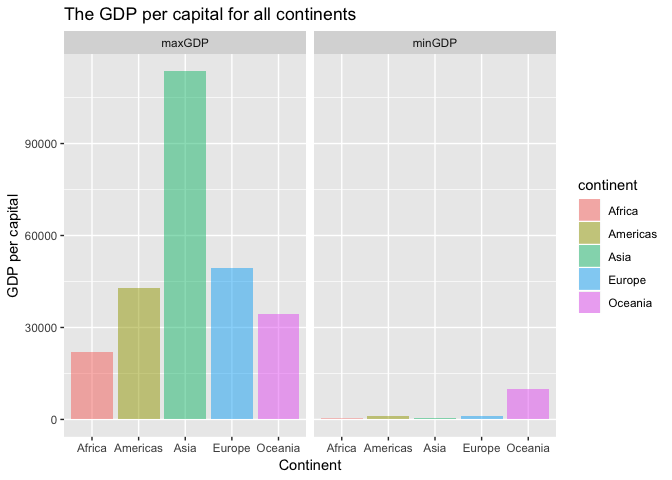
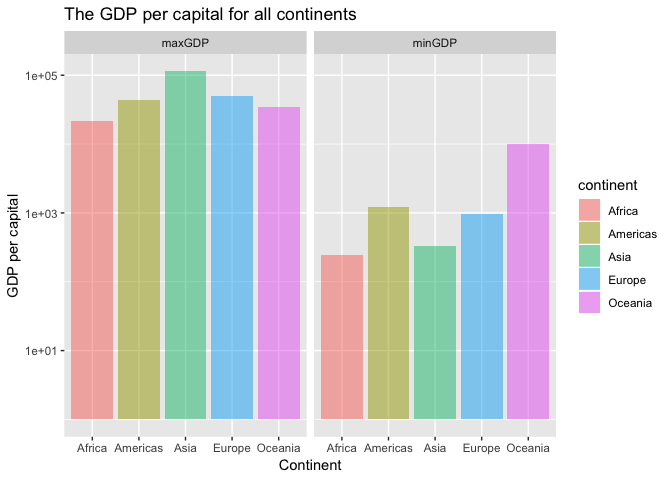
spread

diff --git a/hw03.md b/hw03.md
@@ -43,31 +43,36 @@ GDP_per_cap%>%
     kable(col.names = c("Continent", "Min GDP", "Max GDP"))
 ```
 
-| Continent        |        Min GDP|                                                       Max GDP|
-|:-----------------|--------------:|-------------------------------------------------------------:|
-| Africa           |       241.1659|                                                      21951.21|
-| Americas         |      1201.6372|                                                      42951.65|
-| Asia             |       331.0000|                                                     113523.13|
-| Europe           |       973.5332|                                                      49357.19|
-| Oceania          |     10039.5956|                                                      34435.37|
-| \#\#\#\# Let's t |  ry to view th|  e minimum and maximum of GDP per capital for all continents.|
+| Continent |     Min GDP|    Max GDP|
+|:----------|-----------:|----------:|
+| Africa    |    241.1659|   21951.21|
+| Americas  |   1201.6372|   42951.65|
+| Asia      |    331.0000|  113523.13|
+| Europe    |    973.5332|   49357.19|
+| Oceania   |  10039.5956|   34435.37|
+
+#### Let's try to view the minimum and maximum of GDP per capital for all continents.
 
 ``` r
 GDP_per_cap %>% 
   ##get the col 2 and 3 data_set
-  gather(key=type, value=GDP_per_cap, 2:3) %>%  
+  gather(key=min_or_max, value=GDP_per_cap, 2:3) %>%  
   ##plot the data with color fill
   ggplot(aes(x = continent, y = GDP_per_cap, fill = continent)) +
   ##the height of bars reporesents the data
-  geom_col(alpha=0.5)+
+  geom_col(alpha=0.5) +
+  ##scale the y-axis
+  scale_y_log10() +
   ##warp with maxGDP and minGDP with the y-scale is not aligned
-  facet_wrap(.~type)  +
+  facet_wrap(.~min_or_max)  +
   ggtitle("The GDP per capital for all continents") +
   xlab("Continent") +
   ylab("GDP per capital")
 ```
 
-![](hw03_files/figure-markdown_github/unnamed-chunk-3-1.png) \#\#\#\#Let's try to view the average of GDP per capital for all continents.
+![](hw03_files/figure-markdown_github/unnamed-chunk-3-1.png)
+
+#### Let's try to view the difference between max GDP and min GDP per capital for all continents.
 
 ``` r
 GDP_per_cap %>% 
@@ -76,9 +81,65 @@ ggplot(aes(x = minGDP, y = maxGDP)) +
   geom_point(aes(color=continent, size = (maxGDP - minGDP)), 
              alpha =0.5) +
   coord_polar() +
+  scale_y_log10() +
   ggtitle("maxGDP - minGDP per capital in all continents")
 ```
 
-![](hw03_files/figure-markdown_github/unnamed-chunk-4-1.png) This polar diagram give us the intuition of the largeset GDP difference continent is Oceania while the smallest GDP difference is Africa.
+![](hw03_files/figure-markdown_github/unnamed-chunk-4-1.png) This polar diagram give us the intuition that the largeset GDP difference continent is Asia while the smallest GDP difference is Africa.
 
 ### 2. Look at the spread of GDP per capital within the continents
+
+``` r
+Spread_GDP <- gapminder %>%   
+  group_by(continent) %>% 
+  summarise(sd_GDP = sd(gdpPercap),
+            mean_GDP = mean(gdpPercap),
+            max_GDP = max(gdpPercap),
+            min_GDP = min(gdpPercap))
+
+Spread_GDP %>% 
+  mutate( gdp_range = paste( min_GDP, max_GDP, sep = " ~ ")) %>%
+  arrange(max_GDP-min_GDP) %>% 
+  kable()
+```
+
+| continent |    sd\_GDP|  mean\_GDP|   max\_GDP|    min\_GDP| gdp\_range                |
+|:----------|----------:|----------:|----------:|-----------:|:--------------------------|
+| Africa    |   2827.930|   2193.755|   21951.21|    241.1659| 241.1658765 ~ 21951.21176 |
+| Oceania   |   6358.983|  18621.609|   34435.37|  10039.5956| 10039.59564 ~ 34435.36744 |
+| Americas  |   6396.764|   7136.110|   42951.65|   1201.6372| 1201.637154 ~ 42951.65309 |
+| Europe    |   9355.213|  14469.476|   49357.19|    973.5332| 973.5331948 ~ 49357.19017 |
+| Asia      |  14045.373|   7902.150|  113523.13|    331.0000| 331 ~ 113523.1329         |
+
+From this table, it could also been seen that the largest GDP range is Asia while smallest GDP range is Africa.
+
+#### let's view the spread using viloin plot
+
+``` r
+gapminder %>% 
+  ggplot(aes(continent, gdpPercap)) +
+  geom_violin(aes(fill = continent), alpha = 0.5) +
+  geom_jitter(aes(fill = continent), alpha=0.03) +
+  scale_y_log10() +
+  labs( x = "continent", y = "GDP per capita in log scale", 
+  title = "spread of GDP per capita within the continents")
+```
+
+![](hw03_files/figure-markdown_github/unnamed-chunk-6-1.png)
+
+#### let's view other information
+
+``` r
+Spread_GDP %>%
+  gather(key=spread, value=Spread_GDP, 2:5) %>%  
+  ggplot(aes(x = continent, y = Spread_GDP, fill = continent)) +
+  geom_bin2d(alpha=0.5) +
+  facet_wrap(.~spread)  +
+  scale_y_log10() +
+  labs( x = "spread data", y = "GDP per capita in log scale", 
+  title = "spread of GDP per capita within the continents")
+```
+
+![](hw03_files/figure-markdown_github/unnamed-chunk-7-1.png)
+
+From the above figure, we can see that Asia and Americas have similar mean value while have different strandard value. This is corresponds to what we expected since Asia has larger max - min value of GDP per capital than America.
